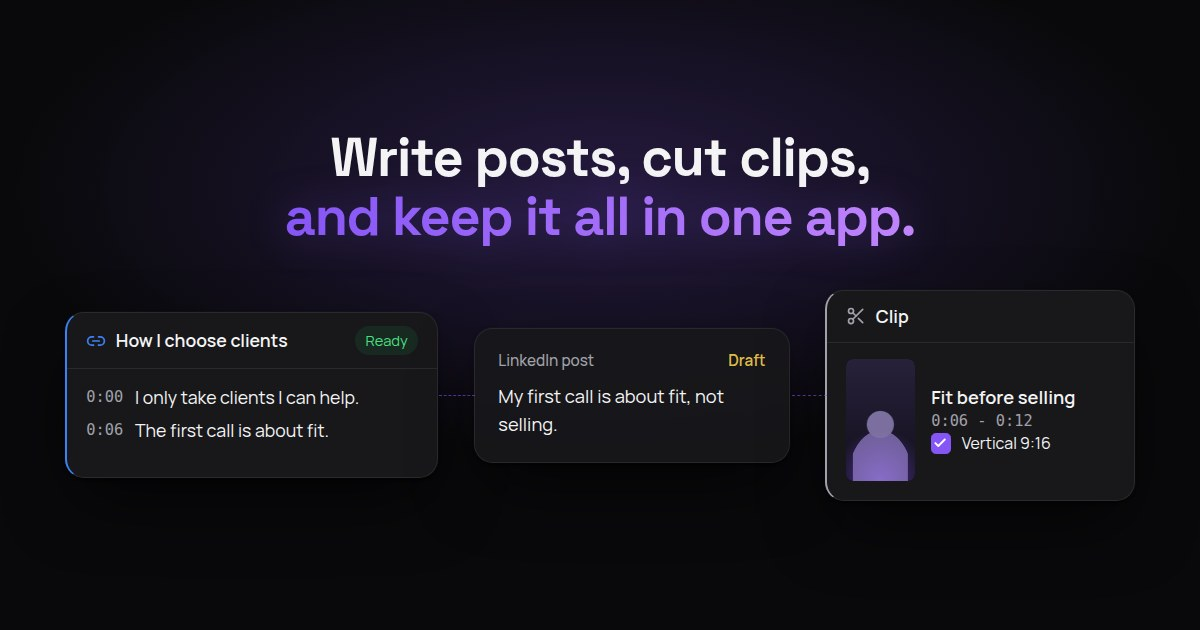
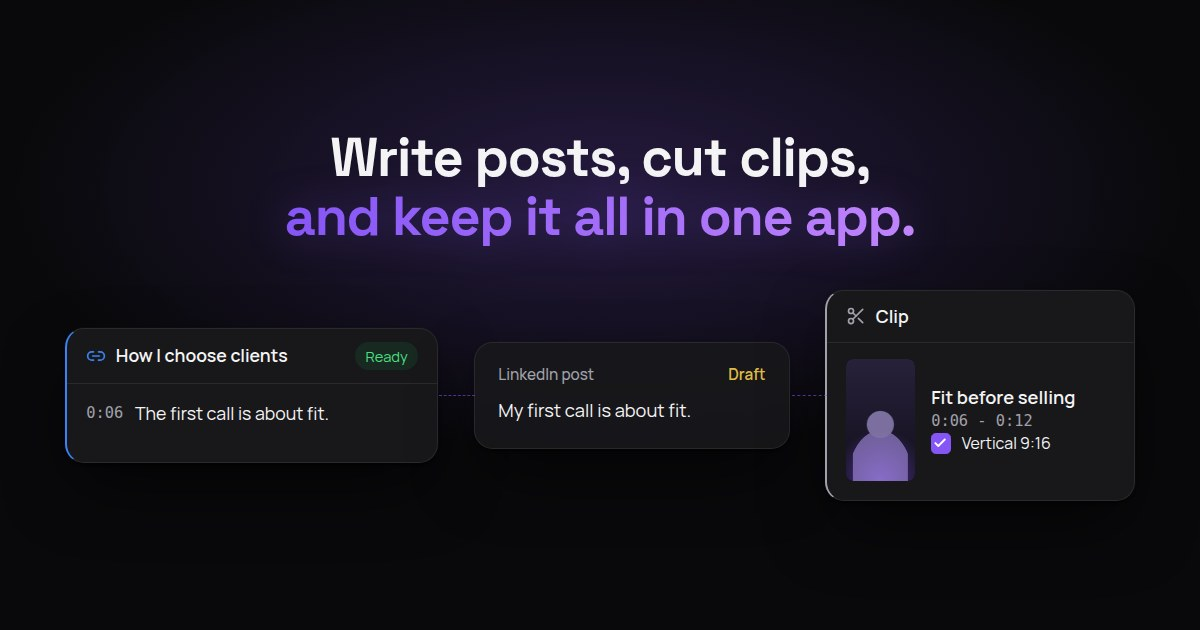
Preview 8 (Sol r1): fewer words per moment, clip moment in 3 states with the 9:16 preview only after the cut, page visible without JavaScript, no layout shift between states

diff --git a/index.html b/index.html
@@ -9,6 +9,7 @@
   <meta property="og:image" content="https://tryechoos.com/og-image.jpg" />
   <title>EchoOS | Write posts, cut clips and keep it all in one app</title>
 
+  <script>document.documentElement.classList.add('js');</script>
   <script src="https://cdn.tailwindcss.com"></script>
   <script src="https://unpkg.com/lucide@latest/dist/umd/lucide.min.js"></script>
 
@@ -85,17 +86,17 @@
       opacity: 0.15;
     }
 
-    .animate-on-scroll {
+    .js .animate-on-scroll {
       opacity: 0;
       transform: translateY(20px);
       transition: opacity 0.6s ease, transform 0.6s ease;
     }
-    .animate-on-scroll.animate-in {
+    .js .animate-on-scroll.animate-in {
       opacity: 1;
       transform: translateY(0);
     }
     @media (prefers-reduced-motion: reduce) {
-      .animate-on-scroll { opacity: 1; transform: none; transition: none; }
+      .js .animate-on-scroll { opacity: 1; transform: none; transition: none; }
     }
 
     .navbar-glass {
@@ -496,12 +497,12 @@
               <div class="mc-head"><span class="mc-title"><svg class="ic ic-blue"><use href="#mi-link"/></svg><span class="stack"><span class="st" data-on="1">Source</span><span class="st" data-on="2 3 end">How I choose clients</span></span></span><span class="stack"><span class="badge b-load st" data-on="1">Loading...</span><span class="badge b-ready st" data-on="2 3 end">Ready</span></span></div>
               <div class="mc-body stack">
                 <div class="st" data-on="1"><p class="mc-status">Downloading the video</p><div class="bar"><i></i></div></div>
-                <ol class="tl st" data-on="2 3 end"><li><time>0:00</time><span>I only take clients I can help.</span></li><li><time>0:06</time><span>The first call is about fit.</span></li></ol>
+                <ol class="tl st" data-on="2 3 end"><li><time>0:06</time><span>The first call is about fit.</span></li></ol>
               </div>
             </div>
             <div class="mc mc-draft h-draft st" data-on="3 end">
               <div class="d-head"><span class="d-plat">LinkedIn post</span><span class="d-status amber">Draft</span></div>
-              <p class="d-text">My first call is about fit, not selling.</p>
+              <p class="d-text">My first call is about fit.</p>
             </div>
             <div class="mc mc-node is-neutral h-clip st" data-on="end">
               <div class="mc-head"><span class="mc-title"><svg class="ic ic-muted"><use href="#mi-scissors"/></svg><span>Clip</span></span></div>
@@ -605,7 +606,7 @@
                     <div class="mc-body stack">
                       <div class="st" data-on="2"><p class="mc-status">Downloading the video</p><div class="bar"><i></i></div></div>
                       <div class="st" data-on="3"><p class="mc-status">Transcribing on this device</p><div class="bar"><i></i></div></div>
-                      <ol class="tl"><li class="st" data-on="end"><time>0:00</time><span>I only take clients I can help.</span></li><li class="st" data-on="end" style="transition-delay:.15s"><time>0:06</time><span>The first call is about fit.</span></li><li class="st" data-on="end" style="transition-delay:.3s"><time>0:12</time><span>Not about selling.</span></li></ol>
+                      <ol class="tl"><li class="st" data-on="end"><time>0:00</time><span>I only take clients I can help.</span></li><li class="st" data-on="end" style="transition-delay:.15s"><time>0:06</time><span>The first call is about fit.</span></li></ol>
                     </div>
                   </div>
                 </div>
@@ -636,7 +637,7 @@
                     <div class="d-head"><span class="d-plat">LinkedIn post</span><span class="d-status amber">Draft</span></div>
                     <div class="stack">
                       <p class="d-text old st" data-on="1 2">I only take on clients I know I can help. My first call is about fit, not selling.</p>
-                      <p class="d-text st" data-on="end">I only take clients I can help.<br>My first call is about fit.<br>What do you ask on a first call?</p>
+                      <p class="d-text st" data-on="end">Only clients I can help.<br>Fit before selling.<br>What do you ask first?</p>
                     </div>
                     <div class="d-form st coll" data-on="1 2"><div>
                         <p class="d-label">Ask for a change</p>
@@ -666,18 +667,18 @@
         <!-- Block 3: Cut and organize (moment: Vertical 9:16, Cut clip, Save to folder) -->
         <div class="feature-row grid grid-cols-1 md:grid-cols-12 gap-8 md:gap-12 items-center animate-on-scroll">
           <div class="md:col-span-7">
-            <figure id="shot-m4" class="moment-figure m-0" role="img" aria-label="Illustration: a clip card in EchoOS. Vertical 9:16 gets ticked, the clip is cut on this device, then Save to folder saves the MP4.">
+            <figure id="shot-m4" class="moment-figure m-0" role="img" aria-label="Illustration: a clip card in EchoOS. Vertical 9:16 gets ticked, Cut clip cuts it on this device, then the vertical clip is saved with Save to folder.">
               <div class="moment-stage">
                 <div class="mo mo-m4" data-moment="m4" data-s="end" aria-hidden="true">
                   <div class="mc mc-node is-neutral">
                     <div class="mc-head"><span class="mc-title"><svg class="ic ic-muted"><use href="#mi-scissors"/></svg><span>Clip</span></span></div>
                     <div class="mc-body">
-                      <div class="c-row"><div class="c-frame-wrap"><div class="c-frame morph"></div></div><div><p class="c-title">Fit before selling</p><p class="c-time">0:06 - 0:12</p></div></div>
+                      <p class="c-title">Fit before selling</p><p class="c-time">0:06 - 0:12</p>
                       <p class="c-check"><span class="box on" data-final-on="on"><svg class="ic"><use href="#mi-check"/></svg></span><span>Vertical 9:16 <span class="muted">for Shorts, Reels and TikTok</span></span></p>
-                      <div class="c-foot stack">
-                        <div class="row st" data-on="1 2"><span class="btn btn-primary" data-click="cut"><svg class="ic" style="width:15px;height:15px"><use href="#mi-scissors"/></svg>Cut clip</span></div>
-                        <div class="st" data-on="3"><p class="mc-status">Cutting the clip on this device...</p><div class="bar"><i></i></div></div>
-                        <div class="row st" data-on="4 end"><span class="btn btn-line is-accent" data-click="save"><svg class="ic" style="width:15px;height:15px"><use href="#mi-download"/></svg>Save to folder</span><span class="c-saved st" data-on="end">Saved.</span></div>
+                      <div class="c-foot">
+                        <div class="st coll" data-on="1"><div><span class="btn btn-primary" data-click="cut"><svg class="ic" style="width:15px;height:15px"><use href="#mi-scissors"/></svg>Cut clip</span></div></div>
+                        <div class="st coll" data-on="2"><div><p class="mc-status">Cutting the clip on this device...</p><div class="bar"><i></i></div></div></div>
+                        <div class="st coll" data-on="end"><div><div class="c-row"><div class="c-frame"></div><div class="c-save"><span class="btn btn-line is-accent" data-click="save"><svg class="ic" style="width:15px;height:15px"><use href="#mi-download"/></svg>Save to folder</span><span class="c-saved" data-final-on="on">Saved.</span></div></div></div></div>
                       </div>
                     </div>
                   </div>

diff --git a/assets/moments.css b/assets/moments.css
@@ -101,7 +101,6 @@
 .c-row { display: flex; gap: 14px; align-items: center; }
 .c-frame { position: relative; flex-shrink: 0; width: 76px; height: 135px; border-radius: 6px; overflow: hidden; background: #000;
   transition: width .6s cubic-bezier(.16,1,.3,1), height .6s cubic-bezier(.16,1,.3,1); }
-.mo[data-s="1"] .c-frame.morph { width: 135px; height: 76px; }
 .c-frame::before { content: ""; position: absolute; inset: 0; background: radial-gradient(120% 70% at 50% 100%, rgba(134,85,246,.55), transparent 60%), linear-gradient(180deg, #27213a, #120f1c); }
 .c-frame::after { content: ""; position: absolute; left: 50%; bottom: 0; width: 46px; height: 62px; transform: translateX(-50%);
   background: radial-gradient(circle at 50% 14px, #cbb8ff 0 11px, transparent 12px), radial-gradient(60% 70% at 50% 100%, #b49cf5 0 98%, transparent 100%); opacity: .55; }
@@ -113,8 +112,6 @@
 .box .ic { position: absolute; inset: 1px; width: 12px; height: 12px; color: #fff; stroke-width: 3.2; opacity: 0; transition: opacity .2s ease; }
 .mo .box.on { background: var(--m-primary); border-color: var(--m-primary); }
 .mo .box.on .ic { opacity: 1; }
-.c-foot { margin-top: 14px; }
-.c-foot .row { display: flex; align-items: center; gap: 10px; }
 .c-saved { font-size: 13px; color: var(--m-muted); }
 
 /* Cursor (site illustration, like a pointer demo) */
@@ -129,7 +126,7 @@
 .mo-hero .h-src { width: 316px; }
 .mo-hero .h-draft { width: 268px; }
 .mo-hero .h-clip { width: 262px; }
-.mo-hero .h-src .mc-body { min-height: 92px; }
+.mo-hero .h-src .mc-body { min-height: 66px; }
 .mo-hero .c-frame { width: 58px; height: 103px; }
 .mo-hero .c-check { margin-top: 0; padding-top: 0; border-top: 0; font-size: 13.5px; }
 /* Desktop: a dashed board edge leads from one card to the next. */
@@ -154,19 +151,22 @@
 }
 
 /* ---------- Feature moments ---------- */
-.moment-stage { position: relative; display: flex; align-items: center; justify-content: center; min-height: 360px; padding: 28px 8px; }
+.moment-stage { position: relative; display: flex; align-items: center; justify-content: center; min-height: 372px; padding: 28px 8px; }
 .moment-stage::before { content: ""; position: absolute; inset: 10% 15%; background: radial-gradient(closest-side, rgba(134,85,246,.16), transparent); filter: blur(10px); pointer-events: none; }
 .mo-m2 { width: 336px; display: flex; flex-direction: column; align-items: flex-start; gap: 18px; }
 .mo-m2 .mc { width: 100%; }
-.mo-m2 .mc-body { min-height: 118px; }
+.mo-m2 .mc-body { min-height: 84px; }
 .mo-m3 { width: 340px; }
 .mo-m4 { width: 330px; }
-.mo-m4 .c-frame-wrap { width: 76px; height: 135px; display: flex; align-items: center; justify-content: center; flex-shrink: 0; transition: width .6s cubic-bezier(.16,1,.3,1); }
-.mo-m4[data-s="1"] .c-frame-wrap { width: 135px; }
-.mo-m4 .c-row { margin-bottom: 2px; }
+.mo-m4 .c-foot .coll > div { padding-top: 14px; }
+.mo-m4 .c-frame { width: 72px; height: 128px; }
+.c-save { display: flex; flex-direction: column; align-items: flex-start; gap: 10px; }
+.mo .c-saved { opacity: 0; transition: opacity .3s ease; }
+.mo .c-saved.on { opacity: 1; }
 @media (max-width: 639px) {
   .moment-stage { min-height: 0; padding: 12px 0; }
-  #shot-m3 .moment-stage { min-height: 320px; } /* the draft card is tallest while asking for a change */
+  #shot-m3 .moment-stage { min-height: 320px; }
+  #shot-m4 .moment-stage { min-height: 336px; } /* the clip card is tallest once the 9:16 clip is cut */ /* the draft card is tallest while asking for a change */
   .mo-m2, .mo-m3, .mo-m4 { width: 100%; max-width: 340px; }
 }
 

diff --git a/assets/moments.js b/assets/moments.js
@@ -104,20 +104,21 @@
         .then(function () { m.root.classList.remove('is-cursor'); m.set('end'); return t.wait(4000); })
         .then(t.out);
     },
-    // Block 3: tick Vertical 9:16, Cut clip, then Save to folder.
+    // Block 3: tick Vertical 9:16, Cut clip, then the cut 9:16 clip appears and Save to folder saves it.
     m4: function (m, t) {
-      var box = m.q('.box'), cut = m.q('[data-click="cut"]'), save = m.q('[data-click="save"]');
+      var box = m.q('.box'), cut = m.q('[data-click="cut"]'), save = m.q('[data-click="save"]'), saved = m.q('.c-saved');
       m.set('1');
       m.cursorAt(m.q('.c-title'), true);
       return t.wait(500).then(function () { return t.moveTo(box); })
         .then(function () { return t.click(box); })
-        .then(function () { box.classList.add('on'); m.set('2'); return t.wait(700); })
+        .then(function () { box.classList.add('on'); return t.wait(450); })
         .then(function () { return t.moveTo(cut); })
         .then(function () { return t.click(cut); })
-        .then(function () { m.set('3'); return t.wait(1500); })
-        .then(function () { m.set('4'); return t.moveTo(save); })
+        .then(function () { m.set('2'); return t.wait(1600); })
+        .then(function () { m.set('end'); return t.wait(700); })
+        .then(function () { return t.moveTo(save); })
         .then(function () { return t.click(save); })
-        .then(function () { m.root.classList.remove('is-cursor'); m.set('end'); return t.wait(3400); })
+        .then(function () { saved.classList.add('on'); m.root.classList.remove('is-cursor'); return t.wait(3200); })
         .then(t.out);
     },
     // Step 1: connect your AI.
